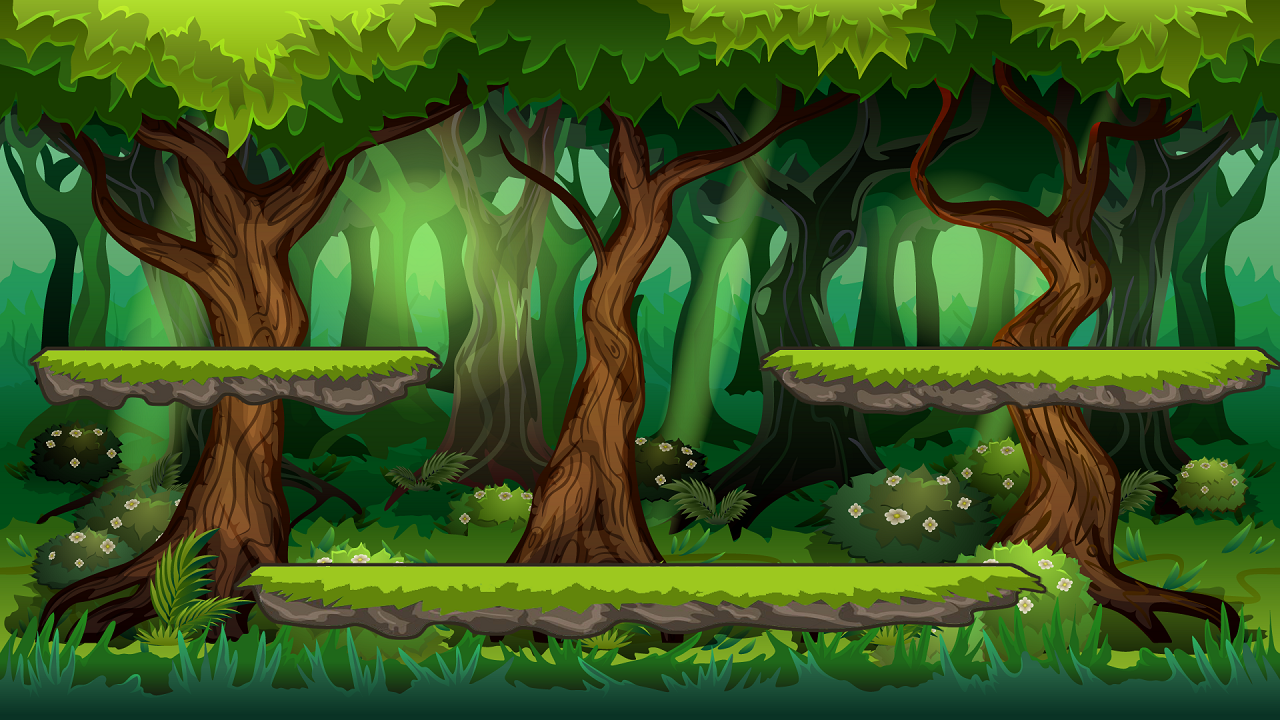
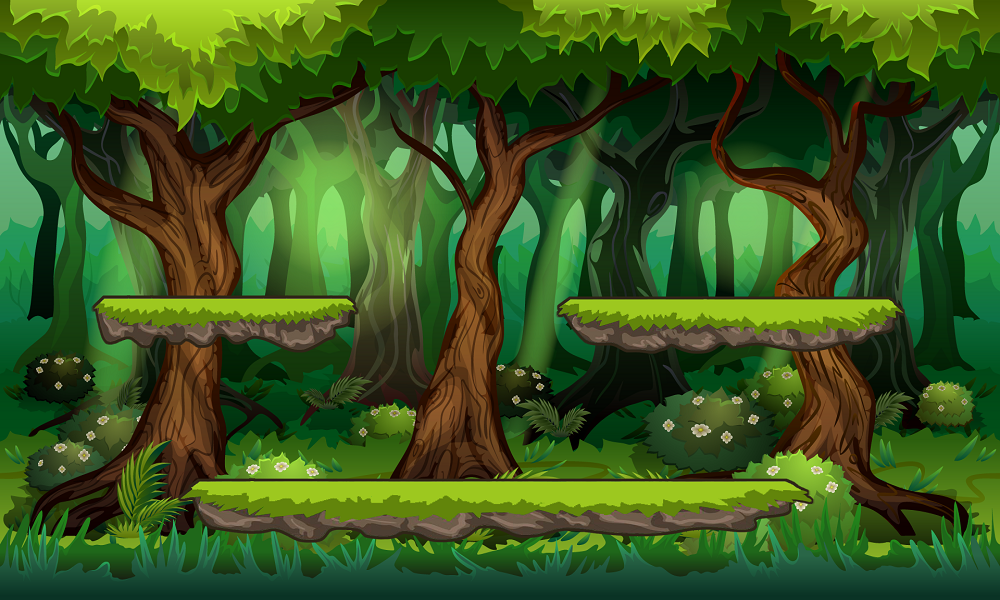
Añadido seleccion de nivel y mejorado escenarios

Changed region(s): [[0.155, 0.78, 0.837, 0.9], [0.558, 0.48, 1.0, 0.6], [0.0, 0.48, 0.372, 0.6]]

diff --git a/js/seleccionMapa.js b/js/seleccionMapa.js
@@ -1,49 +1,86 @@
 class seleccionMapa extends Phaser.Scene {
-    constructor() {
-      super("mapa");
-    }
+  constructor() {
+    super("mapa");
+  }
 
-    preload(){
-      //escenario1 = verde , escenario2 = azul , escenario3 = rojo
-        this.load.image("escenarioVerde", "../assets/images/backgrounds/mapas/escenario1.png");
-        this.load.image("escenarioAzul", "../assets/images/backgrounds/mapas/escenario2.png");
-        this.load.image("escenarioRojo", "../assets/images/backgrounds/mapas/escenario3.png");
+  preload() {
+    //------------------ BackGround Load----------------------------------------------//
+    this.load.image("escenarioVerde", "../assets/images/backgrounds/mapas/escenario1.png");
+    this.load.image("escenarioAzul", "../assets/images/backgrounds/mapas/escenario2.png");
+    this.load.image("escenarioRojo", "../assets/images/backgrounds/mapas/escenario3.png");
+    this.load.image("blueBackground", "../assets/images/backgrounds/mapas/blueMapBackground.jpg");
 
-    }
-    create(){
+    //----------------- UI Images --------------------------------------------//
+    this.load.image("jugar", "../assets/images/userInterface/jugarBoton.png");
+    this.load.image("rayaAmarilla", "../assets/images/userInterface/raya.png")
 
-  let escenarioVerde=  this.add.image(this.game.renderer.width / 2 + 430, this.game.renderer.height / 2 - 200, "escenarioVerde").setScale(0.25);
-  let escenarioAzul =  this.add.image(this.game.renderer.width / 2 + 430, this.game.renderer.height / 2 , "escenarioAzul").setScale(0.25);
-  let escenarioRojo =  this.add.image(this.game.renderer.width / 2 + 430, this.game.renderer.height / 2 + 200, "escenarioRojo").setScale(0.25);
+  }
+  create() {
+    var clickJugar = false;
 
-  let escenarioVerdeGrande=  this.add.image(this.game.renderer.width / 2 - 185, this.game.renderer.height / 2 - 57, "escenarioVerde").setScale(0.65);
-  let escenarioAzulGrande =  this.add.image(this.game.renderer.width / 2 - 185, this.game.renderer.height / 2 - 57, "escenarioAzul").setScale(0.65);
-  let escenarioRojoGrande =  this.add.image(this.game.renderer.width / 2 - 185, this.game.renderer.height / 2 - 57, "escenarioRojo").setScale(0.65);
+    let blueBackground = this.add.image(this.game.renderer.width / 2, this.game.renderer.height / 2, "blueBackground").setDepth(0);
 
-  escenarioVerde.setInteractive();
-  escenarioAzul.setInteractive();
-  escenarioRojo.setInteractive();
+    //------------------Small BackGround----------------------------------------------//
+    let escenarioVerde = this.add.image(this.game.renderer.width / 2 + 330, this.game.renderer.height / 2 - 180, "escenarioVerde").setScale(0.25).setDepth(2);
+    let escenarioAzul = this.add.image(this.game.renderer.width / 2 + 330, this.game.renderer.height / 2, "escenarioAzul").setScale(0.25).setDepth(2);
+    let escenarioRojo = this.add.image(this.game.renderer.width / 2 + 330, this.game.renderer.height / 2 + 180, "escenarioRojo").setScale(0.25).setDepth(2);
 
-  escenarioVerdeGrande.setVisible(false);
-  escenarioAzulGrande.setVisible(false);
-  escenarioRojoGrande.setVisible(false);
+    //------------------ Big BackGround----------------------------------------------//
+    let escenarioVerdeGrande = this.add.image(this.game.renderer.width / 2 - 145, this.game.renderer.height / 2 - 60, "escenarioVerde").setScale(0.65).setDepth(2);
+    let escenarioAzulGrande = this.add.image(this.game.renderer.width / 2 - 145, this.game.renderer.height / 2 - 60, "escenarioAzul").setScale(0.65).setDepth(2);
+    let escenarioRojoGrande = this.add.image(this.game.renderer.width / 2 - 145, this.game.renderer.height / 2 - 60, "escenarioRojo").setScale(0.65).setDepth(2);
 
-  escenarioVerde.on("pointerover", () => {
-    escenarioVerdeGrande.setVisible(true);
+    //----------------- UI Images --------------------------------------------//
+    let jugar = this.add.image(this.game.renderer.width / 2 - 130, this.game.renderer.height / 2 + 220, "jugar").setDepth(2);
+    let rayaAmarilla = this.add.image(400, 330, "rayaAmarilla").setDepth(1).setScale(1.4);
+
+    escenarioVerde.setInteractive();
+    escenarioAzul.setInteractive();
+    escenarioRojo.setInteractive();
+
+    jugar.setInteractive();
+    rayaAmarilla.setInteractive();
+
+    escenarioVerdeGrande.setVisible(false);
     escenarioAzulGrande.setVisible(false);
     escenarioRojoGrande.setVisible(false);
-  })
-  escenarioAzul.on("pointerover", () => {
-    escenarioVerdeGrande.setVisible(false);
-    escenarioAzulGrande.setVisible(true);
-    escenarioRojoGrande.setVisible(false);
-  })
-  escenarioRojo.on("pointerover", () => {
-    escenarioVerdeGrande.setVisible(false);
-    escenarioAzulGrande.setVisible(false);
-    escenarioRojoGrande.setVisible(true);
-  })
-  
-}
+
+    jugar.setVisible(false);
+    rayaAmarilla.setVisible(false);
+
+    if (clickJugar == false) {
+      //------------------ Raton por encima de Escenario----------------------------------------------//
+      escenarioVerde.on("pointerover", () => {
+        escenarioVerdeGrande.setVisible(true);
+        escenarioAzulGrande.setVisible(false);
+        escenarioRojoGrande.setVisible(false);
+      })
+      escenarioAzul.on("pointerover", () => {
+        escenarioVerdeGrande.setVisible(false);
+        escenarioAzulGrande.setVisible(true);
+        escenarioRojoGrande.setVisible(false);
+      })
+      escenarioRojo.on("pointerover", () => {
+        escenarioVerdeGrande.setVisible(false);
+        escenarioAzulGrande.setVisible(false);
+        escenarioRojoGrande.setVisible(true);
+      })
+    }
+
+    //------------------ Click en Escenario----------------------------------------------//
+    escenarioVerde.on("pointerup", () => {
+      this.clickJugar = true;
+      jugar.setVisible(true);
+    })
+    escenarioAzul.on("pointerup", () => {
+      this.clickJugar = true;
+      jugar.setVisible(true);
+    })
+    escenarioRojo.on("pointerup", () => {
+      this.clickJugar = true;
+      jugar.setVisible(true);
+    })
+
+  }
 
 }

diff --git a/js/pantallaPressStart.js b/js/pantallaPressStart.js
@@ -1,30 +1,30 @@
 class pantallaPressStart extends Phaser.Scene {
-    constructor() {
-      super("pressStart"); 
-    }
+  constructor() {
+    super("pressStart");
+  }
 
-    preload(){
-        this.load.image("logo", "../assets/images/userInterface/logoPAWStudios.png");
-    }
-    create(){
-        this.add.image()
+  preload() {
+    this.load.image("logo", "../assets/images/userInterface/logoPAWStudios.png");
+  }
+  create() {
+    this.add.image()
 
-        let logo = this.add.image(this.game.renderer.width / 2, this.game.renderer.height / 2 - 60, "logo").setScale(0.35);
-        this.add.text(this.game.renderer.width / 2 - 115 , this.game.renderer.height / 2 + 240, "Press any button to start");
+    let logo = this.add.image(this.game.renderer.width / 2, this.game.renderer.height / 2 - 60, "logo").setScale(0.35);
+    this.add.text(this.game.renderer.width / 2 - 115, this.game.renderer.height / 2 + 240, "Press any button to start");
 
-        this.input.on('pointerup', function (pointer) {
+    this.input.on('pointerup', function(pointer) {
 
-            this.scene.start('menu');
+      this.scene.start('menu');
 
-        }, this);
+    }, this);
 
-        this.input.keyboard.on('keydown', function () {
+    this.input.keyboard.on('keydown', function() {
 
-         this.scene.start('menu');
+      this.scene.start('menu');
 
-        }, this);
+    }, this);
 
-    }
+  }
 
 
 }

diff --git a/js/menuPrincipal.js b/js/menuPrincipal.js
@@ -6,8 +6,8 @@
   //Funcion que carga los assets en la memoria, coge el id que vamos a usar para referirnos al asset y la direccion
   preload() {
     //------------------ BackGround----------------------------------------------//
-   	this.load.image("portada", "../assets/images/backgrounds/menuPrincipal/portadaSolo.png"); 
-   
+   	this.load.image("portada", "../assets/images/backgrounds/menuPrincipal/portadaSolo.png");
+
 
    //----------------- UI Images --------------------------------------------//
 	  this.load.image("jugar", "../assets/images/userInterface/jugarBoton.png");
@@ -15,13 +15,13 @@
     this.load.image("rayaAmarilla", "../assets/images/userInterface/raya.png")
     this.load.image("soundOn", "../assets/images/userInterface/soundOn.png")
     this.load.image("soundOff", "../assets/images/userInterface/soundOff.png")
-	
-	
+
+
 	//----------------------- Audio ----------------------------------//
 	this.load.audio("musicaInicio","../assets/audio/menuPrincipal/theme-of-wargroove.mp3");
   }
-  
-  
+
+
   //Funcion que añade los assets u objetos al juego
   create() {
 
@@ -38,7 +38,6 @@
   //  let soundOn = this.add.image(700, 500, "soundOn").setDepth(1);
   //  let soundOff = this.add.image(700, 500, "soundOff").setDepth(1);
     let musicaInicio = this.sound.add("musicaInicio");
-
 
     //hacemos que se pueda interactuar con las imagenes
     jugarBoton.setInteractive();

diff --git a/js/juego.js b/js/juego.js
@@ -2,8 +2,8 @@ var config = {
     type: Phaser.AUTO,
     parent: "canvas",
 	expandParent :true,
-	width: 1280,
-	height: 720,
+	width: 1000,
+	height: 600,
     scene: [pantallaPressStart,menuPrincipal,selectorPersonaje,seleccionMapa],
 	scale: {
      autoCenter: Phaser.Scale.CENTER_BOTH,
